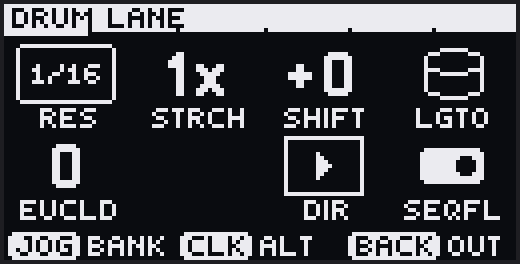
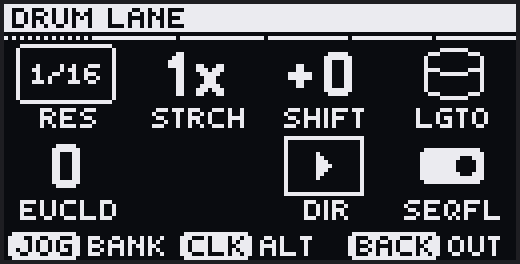
Revert the bank indicator; the bank cards carry no position strip
Josh: "you know what... let's just get rid of the indicator row altogether."

Three shapes were tried in one sitting — white segments under the band, segments
with a separator row above them, notches cut into the band's own edge — and the
first two were invisible on hardware for the same reason (a white row against an
always-inverted header is the header). The third worked, and by then the answer
was that the screen does not want one: the jog opens a NAMED bank picker, so the
card already says which bank it is on in words, and a position strip repeats that
in a form you have to count.

WHAT GOES BACK EXACTLY AS IT WAS
  * drawKitPageBar is restored VERBATIM, blink and all. Sound mode's module param
    pages are its only caller and were never the thing under discussion; they
    should not inherit a redesign nobody looked at.
  * MV_BAR_Y returns to 8, with the dark row at 7 that keeps a white segment row
    off a filled band — now recorded with the device evidence that proves it
    (123 ink, read as nothing).
  * The four clock-freeze notes name drawKitPageBar's blink again, because it
    blinks again. They had been rewritten when it stopped.
  * test_bank_picker's two steps go back to their original assertions, with the
    "no rule under the header" one carrying a note that an indicator was added
    and removed the same day, so the empty row reads as a decision.

WHAT STAYS: the font4x5 header and its 7-row band, and the grid's one-row lift.
[…]

Changed region(s): [[0.0, 0.0909, 1.0, 0.1515]]

diff --git a/docs/UI_LANGUAGE.md b/docs/UI_LANGUAGE.md
@@ -41,10 +41,9 @@ animates is derived, and every derivation is total.
 renderer makes the same page produce two different pictures depending on when you ran it, and a
 before/after PNG diff taken without pinning it is pure noise — that reported eight manual screens as
 "changed" by a style port that changed none of them. Use `freezeClock()` from `render_fb.mjs`.
-⭑ `drawKitPageBar` was the worst offender and no longer blinks (2026-08-30 — the current segment is
-double height instead), so the remaining reader is the latch frame. Keep freezing: the rule is
-about the class, and a renderer that starts reading the clock again must not silently rot the
-manual. Anything built to that shape can be restyled once
+The two readers are `drawKitPageBar` (its active segment blinks off `Date.now()/375`) and the latch
+frame. The rule is about the class, not those two: a renderer that starts reading the clock must not
+silently rot the manual. Anything built to that shape can be restyled once
 and change everywhere. Anything that draws directly has to be found and edited by hand.
 
 Screens absorbed from the host get rebuilt against these primitives from day one. Structurally
